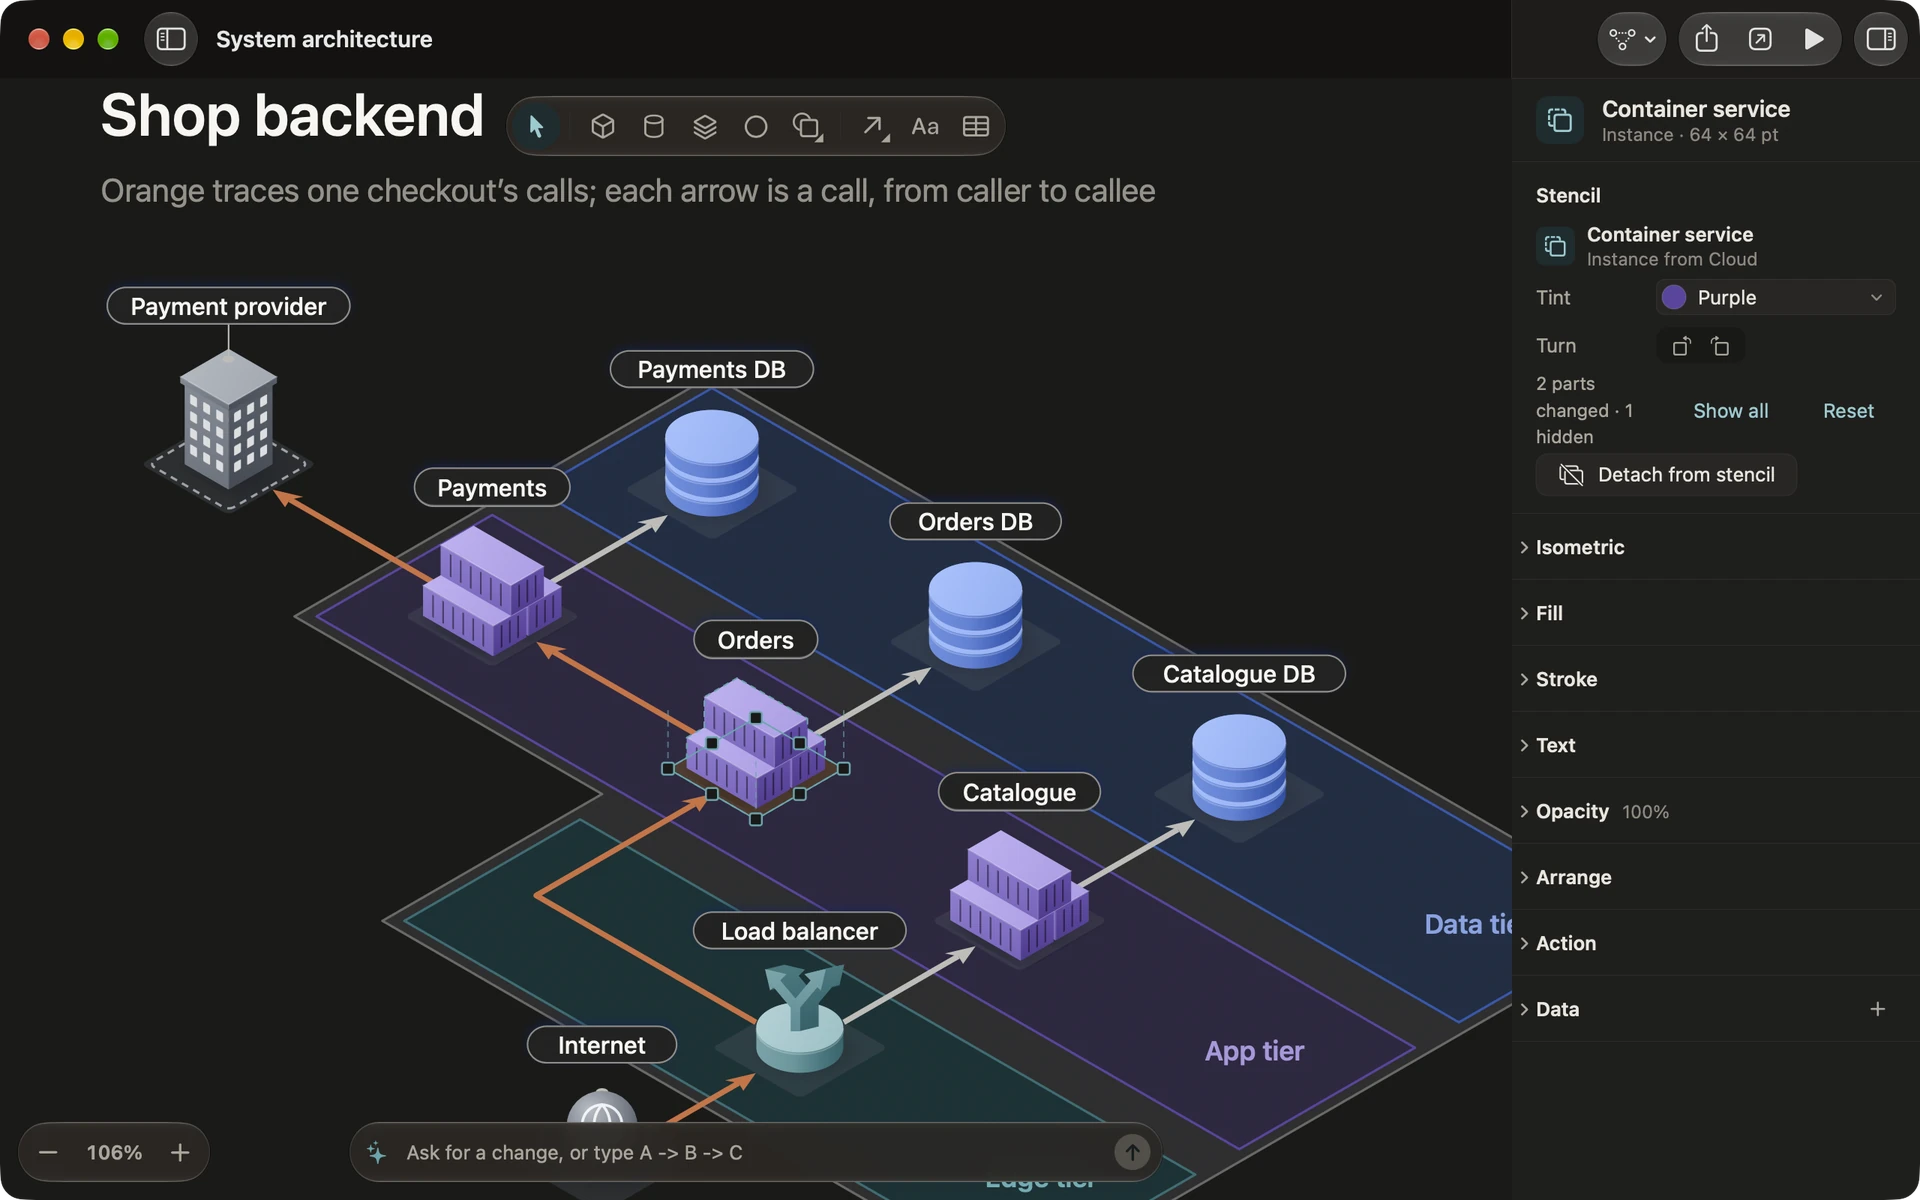
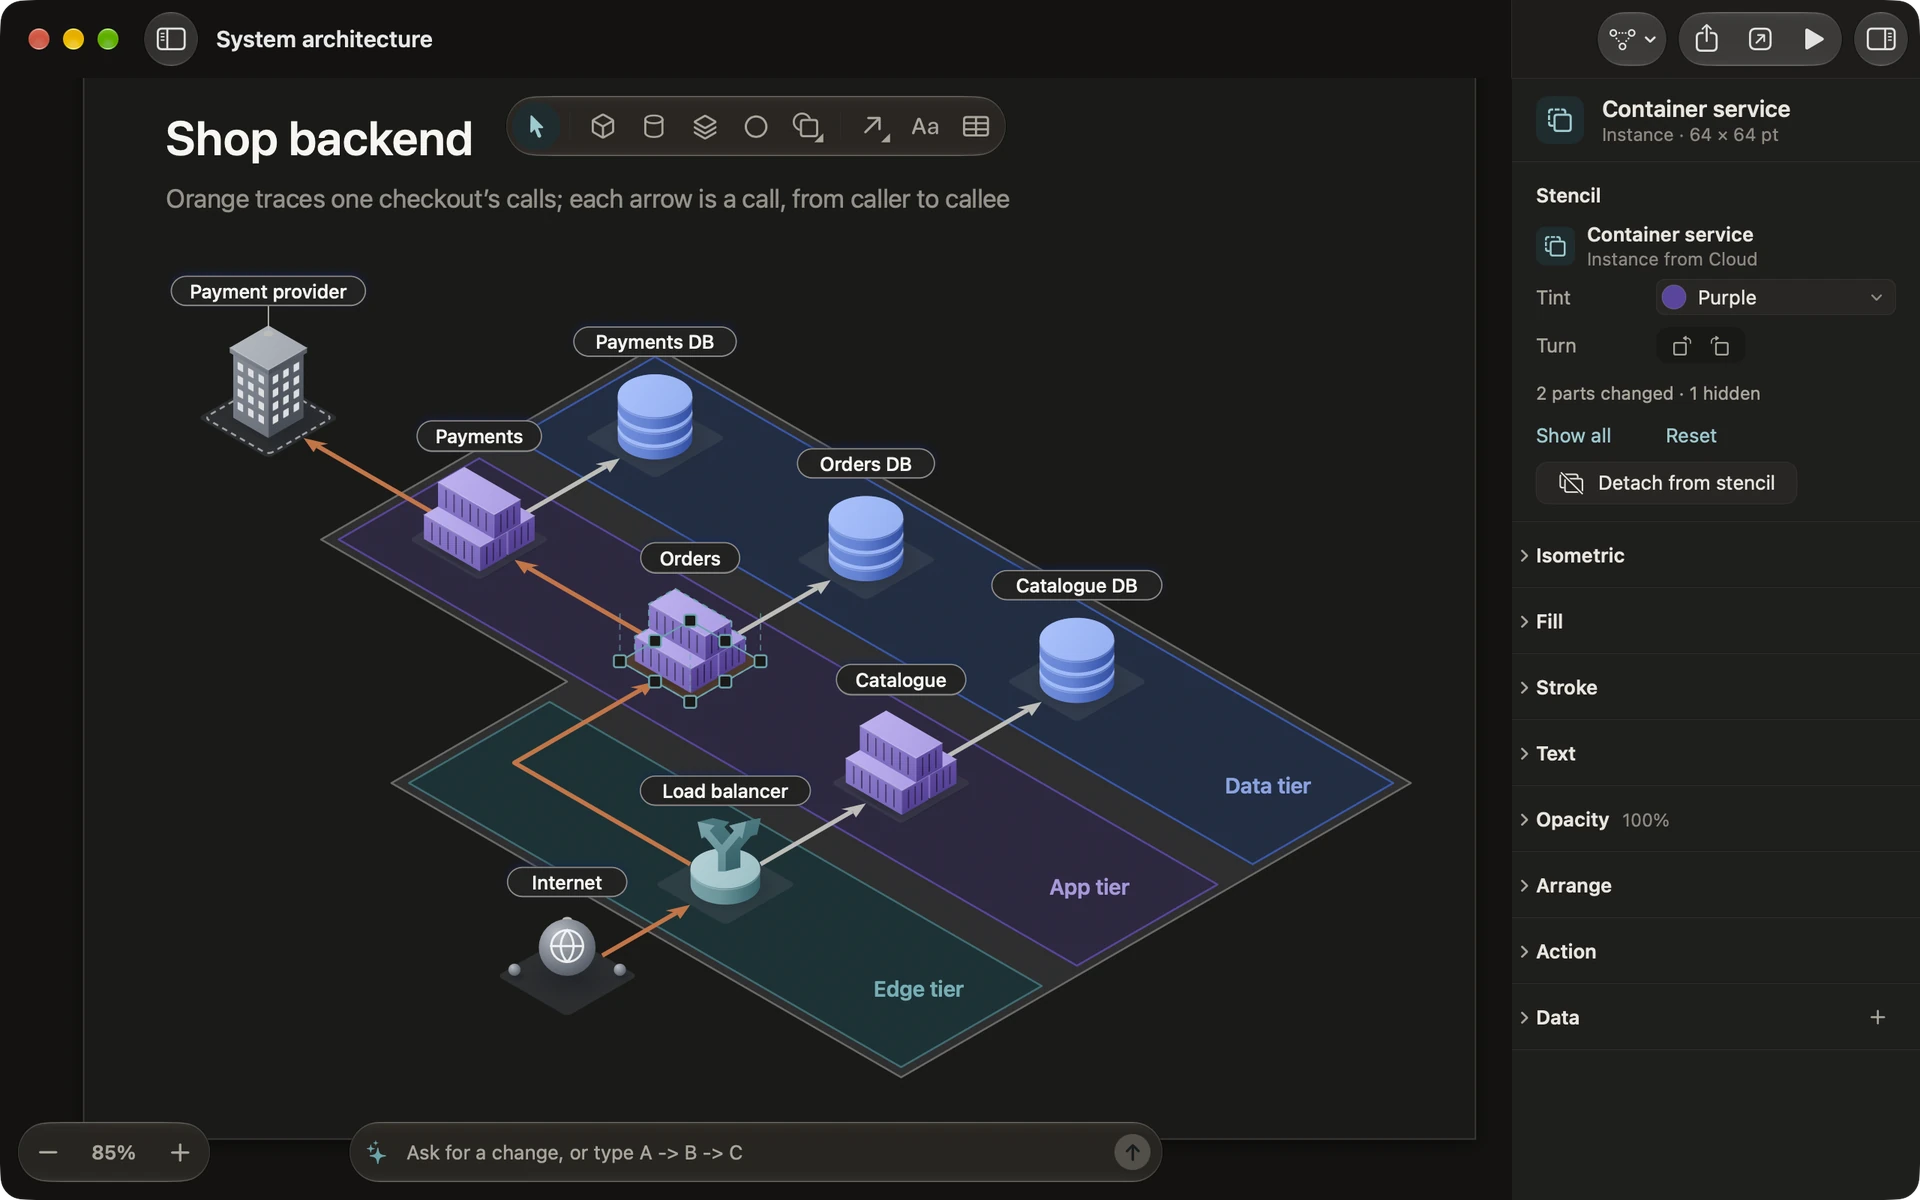
diagrove: instance-inspector taken again with its summary on one line, re-centred so Data tier and Edge tier read; the alt says the parts were changed

diff --git a/content/diagrove/guide/stencils-and-tints.md b/content/diagrove/guide/stencils-and-tints.md
@@ -77,7 +77,7 @@ A library is a `.diagrovestencils` file, small enough to send to someone. **Expo
 
 Importing the same file twice doesn’t make a second copy.
 
-![The System architecture template on Ink paper in the dark appearance, with the Orders container service selected and the inspector’s Stencil section showing its Tint well set to Purple, 2 parts changed · 1 hidden with Show all and Reset, and Detach from stencil.](instance-inspector.webp "An instance with changed and hidden parts.")
+![The System architecture template on Ink paper in the dark appearance, with two of the Orders container service’s parts changed and one hidden: Orders selected, and the inspector’s Stencil section showing its Tint well set to Purple, 2 parts changed · 1 hidden with Show all and Reset, and Detach from stencil.](instance-inspector.webp "An instance with changed and hidden parts.")
 
 ## Related
 
